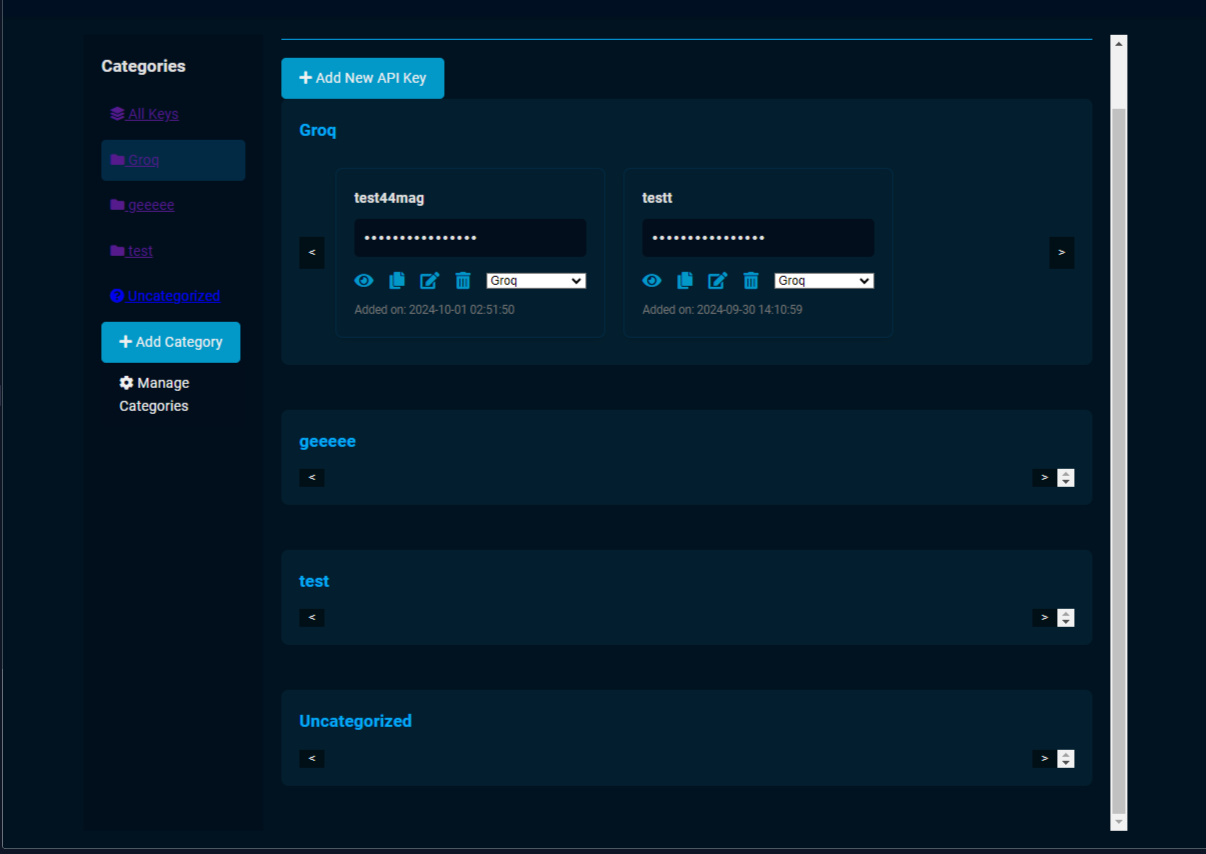
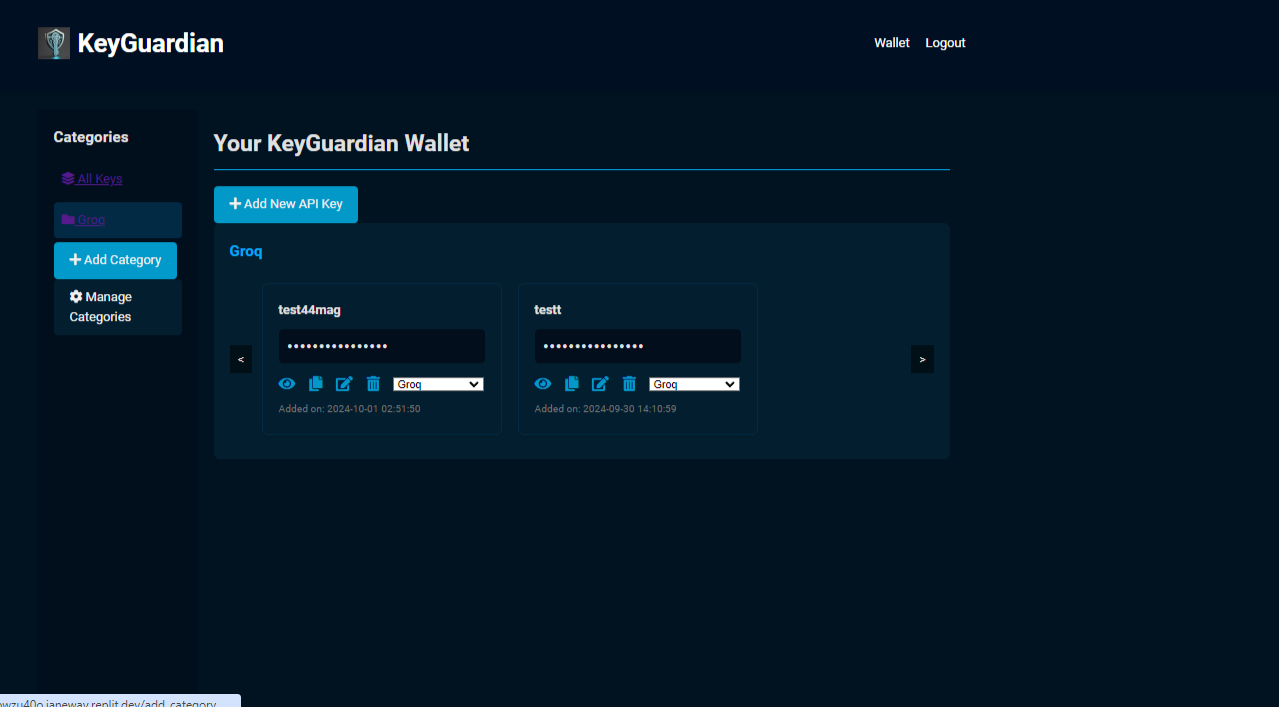
Agent query: Please verify the following: 1) All categories are now visible in the sidebar, even if they don't have any API keys. 2) Clicking on a category filters the API keys to show only those in the selected category. 3) The 'All Keys' option shows all API keys. 4) The 'Uncategorized' option is 

diff --git a/templates/wallet.html b/templates/wallet.html
@@ -17,17 +17,13 @@
                 <a href="{{ url_for('main.wallet') }}"><i class="fas fa-layer-group"></i> All Keys</a>
             </li>
             {% for category in categories %}
-                {% if category.name in grouped_keys %}
-                    <li data-category-id="{{ category.id }}" class="{% if current_category_id == category.id %}active{% endif %}">
-                        <a href="{{ url_for('main.wallet', category_id=category.id) }}"><i class="fas fa-folder"></i> {{ category.name }}</a>
-                    </li>
-                {% endif %}
-            {% endfor %}
-            {% if 'Uncategorized' in grouped_keys %}
-                <li data-category-id="uncategorized" class="{% if current_category_id == 0 %}active{% endif %}">
-                    <a href="{{ url_for('main.wallet', category_id=0) }}"><i class="fas fa-question-circle"></i> Uncategorized</a>
+                <li data-category-id="{{ category.id }}" class="{% if current_category_id == category.id %}active{% endif %}">
+                    <a href="{{ url_for('main.wallet', category_id=category.id) }}"><i class="fas fa-folder"></i> {{ category.name }}</a>
                 </li>
-            {% endif %}
+            {% endfor %}
+            <li data-category-id="uncategorized" class="{% if current_category_id == 0 %}active{% endif %}">
+                <a href="{{ url_for('main.wallet', category_id=0) }}"><i class="fas fa-question-circle"></i> Uncategorized</a>
+            </li>
         </ul>
         <a href="{{ url_for('main.add_category') }}" class="btn btn-sm btn-primary"><i class="fas fa-plus"></i> Add Category</a>
         <a href="{{ url_for('main.manage_categories') }}" class="btn btn-sm btn-secondary"><i class="fas fa-cog"></i> Manage Categories</a>

diff --git a/static/js/main.js b/static/js/main.js
@@ -48,11 +48,13 @@ document.addEventListener('DOMContentLoaded', function() {
     });
 
     categoryList.addEventListener('click', function(e) {
-        if (e.target.tagName === 'LI') {
-            const categoryId = e.target.getAttribute('data-category-id');
+        if (e.target.tagName === 'A' || e.target.closest('a')) {
+            e.preventDefault();
+            const categoryId = e.target.closest('li').getAttribute('data-category-id');
             filterApiKeys(categoryId);
             document.querySelectorAll('#category-list li').forEach(li => li.classList.remove('active'));
-            e.target.classList.add('active');
+            e.target.closest('li').classList.add('active');
+            history.pushState(null, '', e.target.closest('a').href);
         }
     });
 
